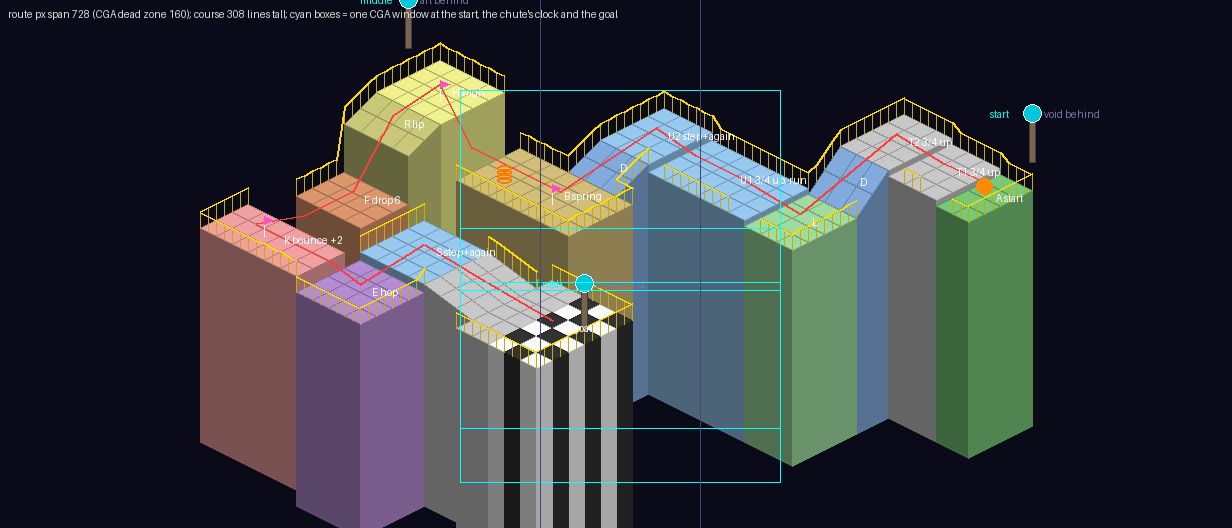
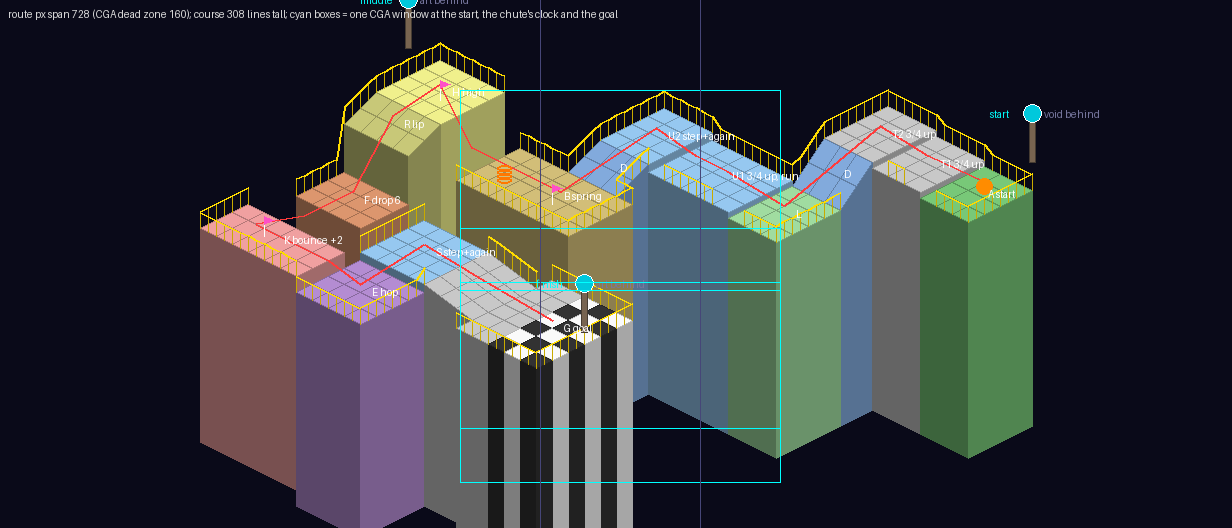
Bonanza: HOP revision 8 - a three-tile start, U1 five; the course guide's reading guidance (1.10)
Claude-Session: https://claude.ai/code/session_01Wo8a4suEiDfFPFBsnHYKF3

Changed region(s): [[0.586, 0.1818, 0.8328, 0.8788], [0.3701, 0.5455, 0.5244, 1.0], [0.8019, 0.3636, 0.8328, 0.3939]]

diff --git a/docs/plans/bonanza-courses/hop/sketch.py b/docs/plans/bonanza-courses/hop/sketch.py
@@ -124,8 +124,8 @@ THICKS = "" if THICK == 3 else " thick %g" % THICK
 # LEG 1, -x (revision 7, the owner, with QUARTER heights, SPEC.md 130.48): the start FLIPPED to the east, and the
 # two void gaps replaced by 3/4-UNIT STEPS UP ("lips"), which no ball rolls up and every ball's Hop climbs.  Climbed
 # moving -x, each riser faces the player.  The spawn's view is far east of "JUMP TWICE!"
-floor("A", 28, 6, 30, 10, Z + 0.5)                           # the start island
-rail(28, 6, 30, 6); rail(30, 6, 30, 10); rail(29, 10, 30, 10, "guard")
+floor("A", 28, 6, 31, 10, Z + 0.5)                           # the start island, three tiles (the owner: roll room)
+rail(28, 6, 31, 6); rail(31, 6, 31, 10); rail(29, 10, 31, 10, "guard")
 floor("T", 25, 6, 28, 10, Z + 1.25)                          # T1: 3/4 up (the first Hop)
 rail(25, 6, 28, 6); rail(26, 10, 27, 10, "guard")
 floor("T", 22, 6, 25, 10, Z + 2)                             # T2: 3/4 up again
@@ -137,63 +137,63 @@ floor("L", 22, 12, 25, 16, Z - 2)
 rail(25, 12, 25, 16); rail(23, 16, 25, 16, "guard")
 # LEG 3, -x: the EASY HOP is now a 3/4 step up onto U1 (the owner's "can't roll up, easy jump, slightly lower than
 # U1"), then U1's six-tile run-up, then the step: "the hard single jump, or easy double jump" (1 unit) onto U2
-floor("U", 16, 12, 22, 16, Z - 1.25)                         # U1: 3/4 up from L, six tiles long
-rail(16, 12, 22, 12); rail(17, 16, 21, 16, "guard")
-floor("U", 13, 12, 16, 16, Z - 0.25)                         # U2: one unit up
-rail(13, 12, 16, 12); rail(13, 12, 13, 16)
+floor("U", 17, 12, 22, 16, Z - 1.25)                         # U1: 3/4 up from L, five tiles long
+rail(17, 12, 22, 12); rail(18, 16, 21, 16, "guard")
+floor("U", 14, 12, 17, 16, Z - 0.25)                         # U2: one unit up
+rail(14, 12, 17, 12); rail(14, 12, 14, 16)
 # LEG 4, +y then -x: down off U2's far end to the basin; the flag stands where the ramp's centre line meets the
 # spring's row, so a respawn rolls straight on into it; the SPRING throws the ball -x onto H, six units up
-ramp("D", "y", 13, 16, 16, 18, Z - 0.25, Z - 2.25)
-rail(13, 16, 13, 18); rail(16, 16, 16, 18)
-floor("B", 10, 18, 17, 22, Z - 2.25)                         # B: the basin, wide
-rail(10, 18, 13, 18); rail(16, 18, 17, 18); rail(17, 18, 17, 22); rail(10, 22, 17, 22)
-SPRINGS.append((11, 20, 768))                                # thrown -x, over the void column (x 9), onto H
-floor("H", 5, 18, 9, 22, Z + 3.75)                           # H: six units over the basin
-rail(5, 18, 9, 18); rail(5, 18, 5, 22)                       # (an over-throw is caught)
+ramp("D", "y", 14, 16, 17, 18, Z - 0.25, Z - 2.25)
+rail(14, 16, 14, 18); rail(17, 16, 17, 18)
+floor("B", 11, 18, 18, 22, Z - 2.25)                         # B: the basin, wide
+rail(11, 18, 14, 18); rail(17, 18, 18, 18); rail(18, 18, 18, 22); rail(11, 22, 18, 22)
+SPRINGS.append((12, 20, 768))                                # thrown -x, over the void column (x 10), onto H
+floor("H", 6, 18, 10, 22, Z + 3.75)                           # H: six units over the basin
+rail(6, 18, 10, 18); rail(6, 18, 6, 22)                       # (an over-throw is caught)
 # LEG 5, +y: TRIAL's drop and bounce - down the lip ramp, six units onto F, rubber's rebound onto K, two units
 # over F, three tiles on
-ramp("R", "y", 5, 22, 9, 24, Z + 3.75, Z + 1.75)             # R: the lip
-rail(5, 22, 5, 24)
-floor("F", 5, 24, 9, 27, Z - 4.25)                           # F: six units under the lip
-rail(5, 24, 5, 27)
-floor("K", 5, 30, 11, 33, Z - 2.25)                          # K: past a 3-tile gap (y 27 - 29)
-rail(5, 30, 5, 33); rail(5, 33, 11, 33)
+ramp("R", "y", 6, 22, 10, 24, Z + 3.75, Z + 1.75)             # R: the lip
+rail(6, 22, 6, 24)
+floor("F", 6, 24, 10, 27, Z - 4.25)                           # F: six units under the lip
+rail(6, 24, 6, 27)
+floor("K", 6, 30, 12, 33, Z - 2.25)                          # K: past a 3-tile gap (y 27 - 29)
+rail(6, 30, 6, 33); rail(6, 33, 12, 33)
 # LEG 6, +x then -y: once more, both moves - a Hop over a 1-tile gap, a step with its "and again" - then the goal
-floor("E", 12, 30, 16, 34, Z - 2.25)                         # E: a Hop (gap x 11)
-rail(12, 34, 16, 34); rail(16, 30, 16, 34)
-floor("S", 12, 26, 16, 30, Z - 1.25)                         # S: one unit up from E, climbed -y
-rail(12, 26, 12, 30)
-ramp("G", "x", 16, 26, 19, 30, Z - 1.25, Z - 2.75)           # G: down, +x, to the goal
-rail(16, 26, 19, 26)
-floor("G", 19, 25, 24, 31, Z - 2.75)                         # the goal plateau
-rail(19, 25, 24, 25); rail(24, 25, 24, 31); rail(19, 31, 24, 31)
-GOAL = {(x, y) for x in range(21, 24) for y in range(25, 31)}
+floor("E", 13, 30, 17, 34, Z - 2.25)                         # E: a Hop (gap x 12)
+rail(13, 34, 17, 34); rail(17, 30, 17, 34)
+floor("S", 13, 26, 17, 30, Z - 1.25)                         # S: one unit up from E, climbed -y
+rail(13, 26, 13, 30)
+ramp("G", "x", 17, 26, 20, 30, Z - 1.25, Z - 2.75)           # G: down, +x, to the goal
+rail(17, 26, 20, 26)
+floor("G", 20, 25, 25, 31, Z - 2.75)                         # the goal plateau
+rail(20, 25, 25, 25); rail(25, 25, 25, 31); rail(20, 31, 25, 31)
+GOAL = {(x, y) for x in range(22, 25) for y in range(25, 31)}
 
 # THE LIPS: a grounded island's face fills a 1-tile gap exactly as it fills a step's riser, so a gap and a step
 # look alike.  The lip row of each gap FLOATS one unit thick, a black notch under it saying "gap" (the NEAR
 # island's, both gaps being taken down the screen)
 def lip(x0, y0, x1, y1):
     ROOMS_TXT.append("float rect %3d %3d %3d %3d thick 1   # the lip over a gap" % (x0 + OFF, y0 + OFF, x1 + OFF, y1 + OFF))
-lip(5, 26, 9, 27)                                            # the bounce's gap
-lip(10, 30, 11, 33)                                          # Hop E
+lip(6, 26, 10, 27)                                            # the bounce's gap
+lip(11, 30, 12, 33)                                          # Hop E
 
-START = (28.5, 7.5)
+START = (29.5, 7.5)
 # a flag stands just BEFORE what can kill, so a fall never replays a long stretch
-FLAGS = [(14.5, 20.5, "flag 0"), (7.5, 20.5, "flag 1"), (7.5, 31.5, "flag 2")]
+FLAGS = [(15.5, 20.5, "flag 0"), (8.5, 20.5, "flag 1"), (8.5, 31.5, "flag 2")]
 # clocks (the owner places them; these are first guesses): (wx, wy, the tile's floor z, name, kind)
-CLOCKS = [(29.5, 5.5, Z + 2, "start", "block"), (4.5, 19.5, Z + 5.25, "middle", "block"),
-          (24.5, 28.5, Z - 1.25, "finish", "block")]
+CLOCKS = [(30.5, 5.5, Z + 2, "start", "block"), (5.5, 19.5, Z + 5.25, "middle", "block"),
+          (25.5, 28.5, Z - 1.25, "finish", "block")]
 PLACED = {}
-SIGNS = [(26.5, 5.5, "JUMP!"), (17.5, 11.5, "JUMP\nTWICE!")]   # "JUMP!" on T1's north rail, "JUMP TWICE!" on U1's
+SIGNS = [(26.5, 5.5, "JUMP!"), (18.5, 11.5, "JUMP\nTWICE!")]   # "JUMP!" on T1's north rail, "JUMP TWICE!" on U1's
 
 # the route, as the player rolls it (the sketch's centre line, not a demo)
-ROUTE = [(28.5, 7.5), (26.5, 8), (23.5, 8), (23.5, 11), (23.5, 14), (20, 14), (17, 14), (14.5, 14), (14.5, 17),
-         (14.5, 20), (11, 20), (9, 20), (7, 20), (7, 23), (7, 25.5), (7, 28.5), (7, 31.5), (9.5, 31.5),
-         (11.5, 31.5), (14, 32), (14, 28), (17.5, 28), (22, 28)]
-LABELS = [(29, 8, "A start"), (26.5, 8, "T1 3/4 up"), (23.5, 8, "T2 3/4 up"), (23.5, 11, "D"), (23.5, 14, "L"),
-          (19, 14, "U1 3/4 up, run"), (14.5, 14, "U2 step+again"), (14.5, 17, "D"), (14, 20, "B spring"),
-          (7, 20, "H high"), (7, 23, "R lip"), (7, 25.5, "F drop 6"), (8, 31.5, "K bounce +2"), (14, 32, "E hop"),
-          (14, 28, "S step+again"), (22, 28, "G goal")]
+ROUTE = [(29.5, 7.5), (26.5, 8), (23.5, 8), (23.5, 11), (23.5, 14), (20, 14), (18, 14), (15.5, 14), (15.5, 17),
+         (15.5, 20), (12, 20), (10, 20), (8, 20), (8, 23), (8, 25.5), (8, 28.5), (8, 31.5), (10.5, 31.5),
+         (12.5, 31.5), (15, 32), (15, 28), (18.5, 28), (23, 28)]
+LABELS = [(29.5, 8, "A start"), (26.5, 8, "T1 3/4 up"), (23.5, 8, "T2 3/4 up"), (23.5, 11, "D"), (23.5, 14, "L"),
+          (19.5, 14, "U1 3/4 up, run"), (15.5, 14, "U2 step+again"), (15.5, 17, "D"), (15, 20, "B spring"),
+          (8, 20, "H high"), (8, 23, "R lip"), (8, 25.5, "F drop 6"), (9, 31.5, "K bounce +2"), (15, 32, "E hop"),
+          (15, 28, "S step+again"), (23, 28, "G goal")]
 
 # --- drawing ----------------------------------------------------------------
 SECCOL = {"K": (240, 160, 160), "S": (150, 200, 240), "U": (150, 200, 240), "V": (240, 200, 150), "R": (200, 200, 120), "L": (160, 220, 160),
@@ -379,7 +379,7 @@ HEAD_TXT = """
 course HOP "Little Hop"
 guide                     # a REAL course: held to the course guide's checkable rules
 width 128                 # the islands swing 30 tiles across, and a fall drifts 3 more each side (NEAR void): 1024 px, scrolled (G2)
-origin 544                # the reach's span centred in the 1024 px
+origin 528                # the reach's span centred in the 1024 px
 uses spring
 ball rubber
 trap hop                  # NO TRAP presses the Hop and its "and again" too: the course is built on them (SPEC.md 130.14.4.1.1)

diff --git a/docs/plans/bonanza-courses/README.md b/docs/plans/bonanza-courses/README.md
@@ -237,7 +237,40 @@ moves.
   horizontal framing would show all of it. That is a camera change (a
   per-course horizontal lock). TAKEN and BUILT: SPEC.md 130.45, `lock across`.
 
-## 2. The design sheet (`<NAME>.md`)
+### 1.10 Reading the course: guidance from LITTLE HOP (2026-11-19)
+
+*Guidance, not rules (the owner: "mostly good general guides, but not hard
+constraints"). What course 2's seven revisions taught about what the player
+can SEE; each is a default to depart from with a reason.*
+
+- **Climb up the screen, drop down it.** The camera sees only a tile's +x
+  and +y faces, so a step UP climbed moving +x or +y shows no riser and
+  reads as flat; climbed moving -x or -y, the riser faces the player. A drop
+  reads best taken moving +x or +y, the edge left behind showing its face.
+- **A gap between grounded columns needs a LIP.** The near island's side face
+  fills a 1-tile gap exactly as it fills a step's riser, so the two look
+  alike. Floating the lip row before the gap one unit thick (`float ...
+  thick 1`) leaves a black notch under it: a notch means a gap, no notch a
+  step. The lip is on the island whose face is in view: the near one for a
+  gap taken down the screen, the far one for a gap climbed up it.
+- **Keep apart what does not connect.** Two surfaces a tile apart at nearly
+  one height read as one hop, whether or not the course means it; about
+  three void tiles, or a clear height difference, keeps a non-route
+  neighbour from looking like the route.
+- **The jump rungs** (quarter heights, SPEC.md 130.48): a 3/4-unit step
+  is the EASY jump (no ball rolls up it, every ball's Hop climbs it), and a
+  1-unit step is the hard single jump or rubber's easy double jump. A 1-tile
+  gap is an easy Hop; a 2-tile gap needs a precise "and again".
+- **Give a start some roll room.** At least three tiles before the first
+  jump, so a player never has to back up to get going.
+- **Signs say what to do next, where it is done**: "JUMP!" before the jump,
+  not after it ("a 'here is what you need to do' instruction instead of a
+  'do this to get here' instruction").
+- *Specific to a TEACHING course, not general:* a long run-up before a move
+  being taught (LITTLE HOP's five-tile U1 before the double jump). A test
+  course may cut it short on purpose.
+
+
 
 One per shipped course, written before its `.bbc`; it is the PEN-IN of
 section 3. [FIRST-ROLL.md](FIRST-ROLL.md) is the first. The plan's pipeline step 1

diff --git a/docs/plans/bonanza-courses/HOP.md b/docs/plans/bonanza-courses/HOP.md
@@ -1,10 +1,22 @@
 # COURSE 2, "Little Hop" (HOP; was "Island Hop"): design sheet
 
-*Status: **IN ENGINE, revision 7** (2026-11-19): `apps/bonanza/courses/hop.bbc`,
+*Status: **IN ENGINE, revision 8** (2026-11-19): `apps/bonanza/courses/hop.bbc`,
 written by `hop/sketch.py --bbc --force`, compiles with every check, and the
 BZROLL=1 playtest build carries it on pad 1. The owner's verdict on the gaps
 is the next step; revision 2 below supersedes attempt 1's layout, which
 sections 1 - 4 still describe.*
+
+## Revision 8 (2026-11-19): roll room at the start
+
+The owner: *"The course feels very secure, newbie friendly, and good to me"*,
+then: *"The start area needs to be 3 blocks at least, so they have some roll
+room before the first jump and don't have to move backwards. We can cut one
+of the tiles from jump twice to support that."* A is three tiles, U1 five;
+everything west of U1 moved a tile east (`origin 528`). "JUMP TWICE!" is
+still off the spawn's screen (the CGA window from x 704, the sign 613 - 667).
+The lessons went into the course guide as GUIDANCE, section 1.10. An agent
+is teaching the tool's autopilot to Hop, so the route demo and the limit come
+from the course again (today: `limit 70` by hand, the demo "inputs only").
 
 ## Revision 7 (2026-11-19): quarter heights - the start flipped east, 3/4 lips
 
